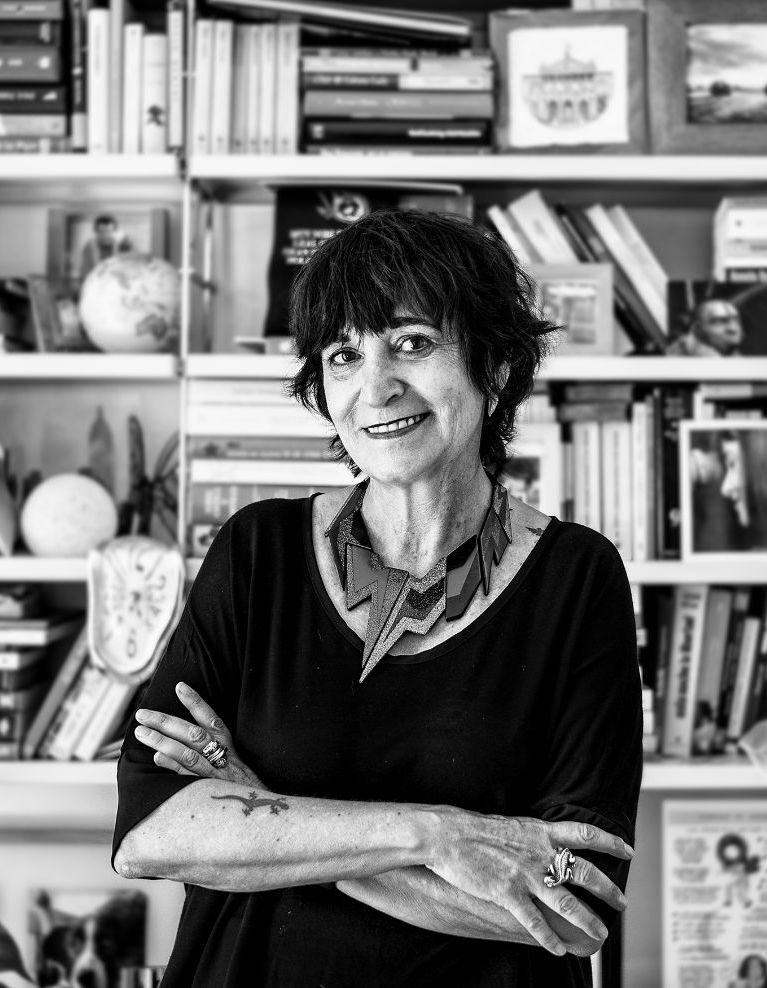
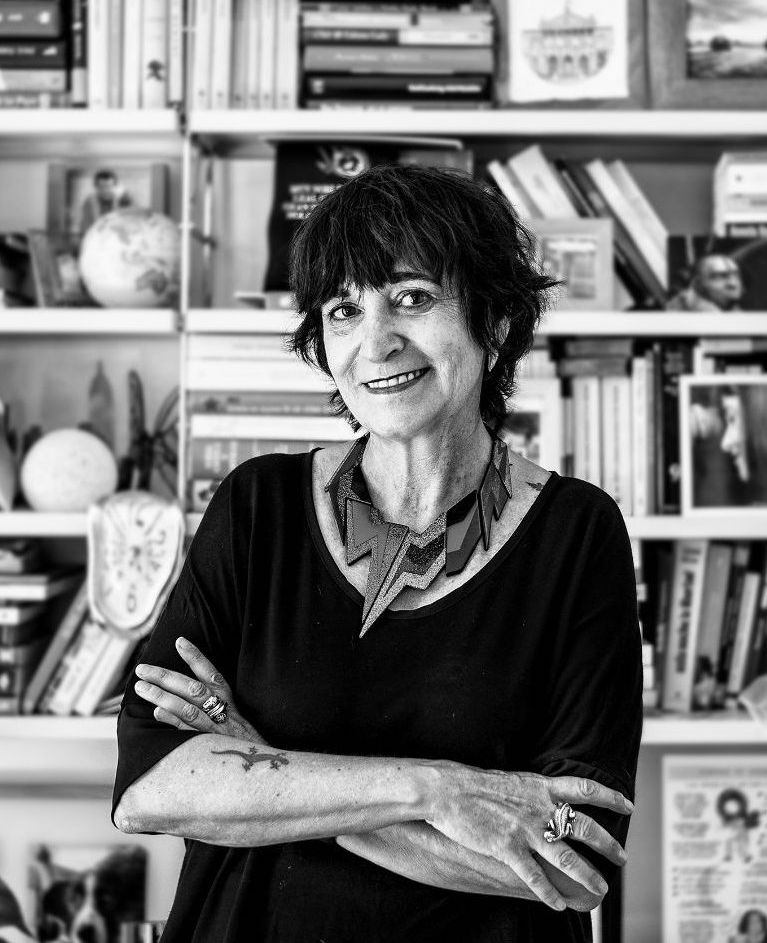
changed picture for rosa montero in index

diff --git a/css/index.css b/css/index.css
@@ -67,7 +67,7 @@ h1 {
 }
 /*///////////////////////IMAGES////////////////////////////////////////*/
 .img1 {
-    background-image: url('../images/atwood_photo.jpg');
+    background-image: url('../images/margaret_atwood.jpg');
     background-size: cover;
     background-position: center;
     filter: grayscale(100%);
@@ -79,7 +79,7 @@ h1 {
     filter: grayscale(100%);
 }
 .img3 {
-    background-image: url('../images/rosa_montero.jpeg');
+    background-image: url('../images/rosa_montero2.jpg');
     background-size: cover;
     background-position: center;
     filter: grayscale(100%);
